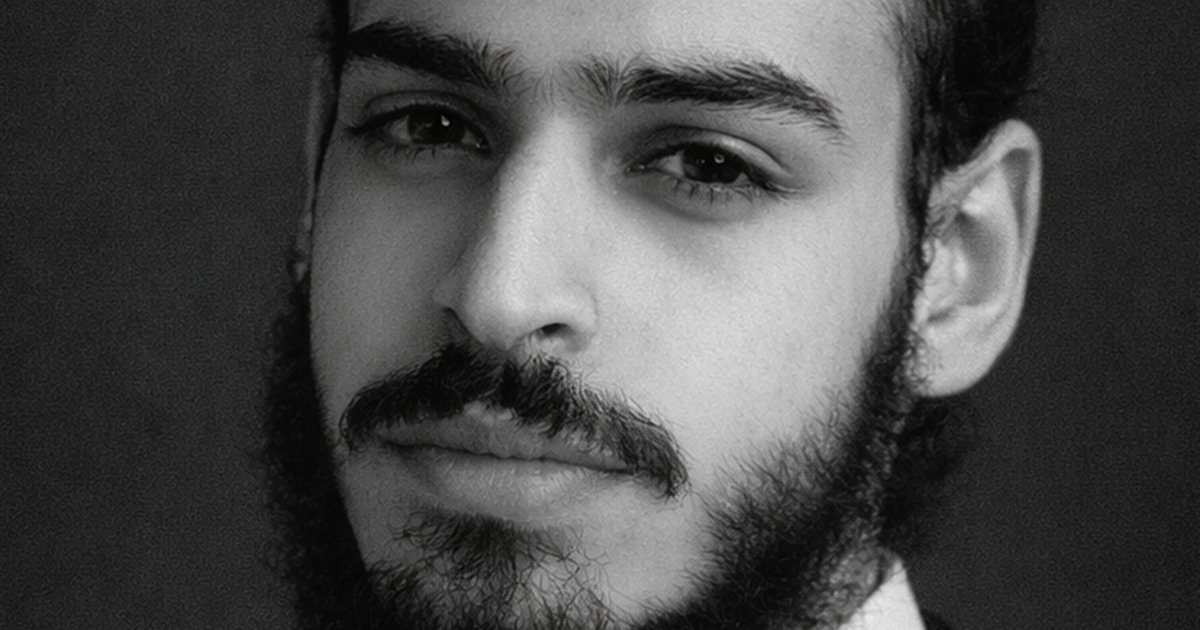
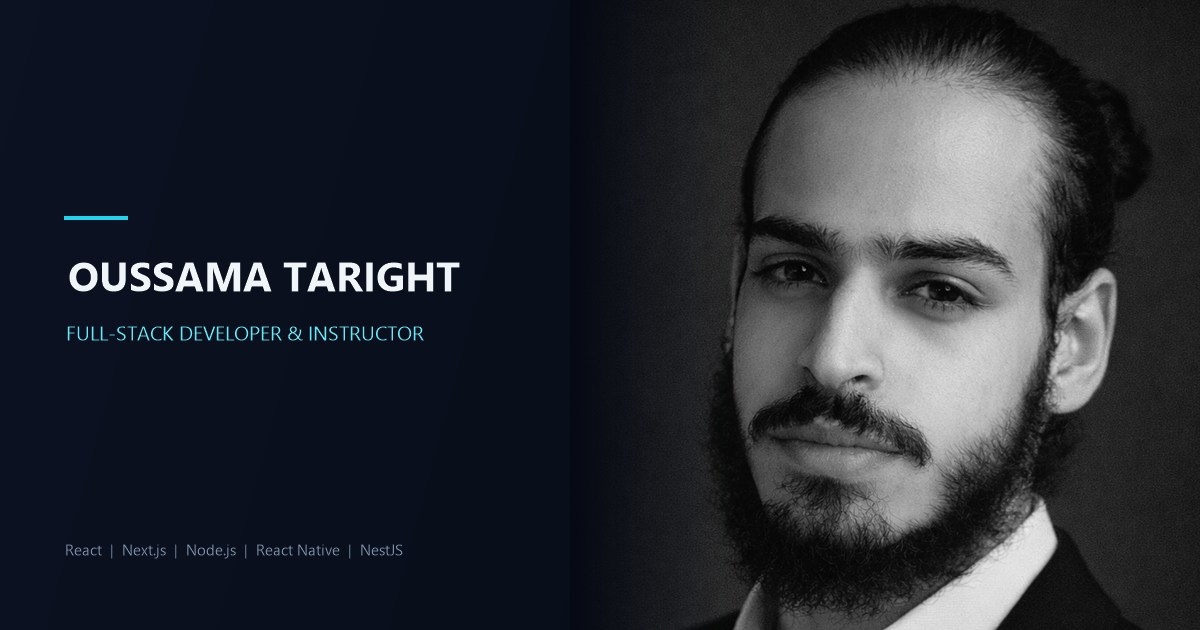
fix: photot link

diff --git a/index.html b/index.html
@@ -9,10 +9,12 @@
       content="Kali Linux-inspired portfolio OS: Oussama Taright builds full-stack web & mobile products (React, Next.js, Node, React Native) and teaches full-stack development."
     />
     <meta name="theme-color" content="#050913" />
-    <link rel="icon" type="image/svg+xml" href="/src/assets/Neon Dragon Emblem.png" />
-    <link rel="alternate icon" href="/src/assets/Neon Dragon Emblem.png" />
-    <link rel="apple-touch-icon" href="/src/assets/Neon Dragon Emblem.png" />
+    <link rel="icon" type="image/svg+xml" href="/favicon.svg" />
+    <link rel="icon" type="image/x-icon" href="/oussama-favicon.ico" sizes="any" />
+    <link rel="apple-touch-icon" href="/apple-touch-icon.png" />
     <meta property="og:type" content="website" />
+    <meta property="og:url" content="https://portfolio-mauve-iota-15.vercel.app/" />
+    <meta property="og:site_name" content="Oussama Taright" />
     <meta
       property="og:title"
       content="Oussama Taright · Full-Stack Developer & Instructor"
@@ -21,7 +23,16 @@
       property="og:description"
       content="Kali Linux-inspired portfolio OS: full-stack web & mobile products (React, Next.js, Node, React Native) plus instructor experience."
     />
-    <meta property="og:image" content="/og-cover.jpg" />
+    <meta
+      property="og:image"
+      content="https://portfolio-mauve-iota-15.vercel.app/og-cover.jpg"
+    />
+    <meta property="og:image:width" content="1200" />
+    <meta property="og:image:height" content="630" />
+    <meta
+      property="og:image:alt"
+      content="Portrait of Oussama Taright, full-stack developer and instructor"
+    />
     <meta name="twitter:card" content="summary_large_image" />
     <meta
       name="twitter:title"
@@ -31,7 +42,10 @@
       name="twitter:description"
       content="Kali Linux-inspired portfolio OS: full-stack web & mobile products (React, Next.js, Node, React Native) plus instructor experience."
     />
-    <meta name="twitter:image" content="/og-cover.jpg" />
+    <meta
+      name="twitter:image"
+      content="https://portfolio-mauve-iota-15.vercel.app/og-cover.jpg"
+    />
   </head>
   <body>
     <div id="root"></div>
